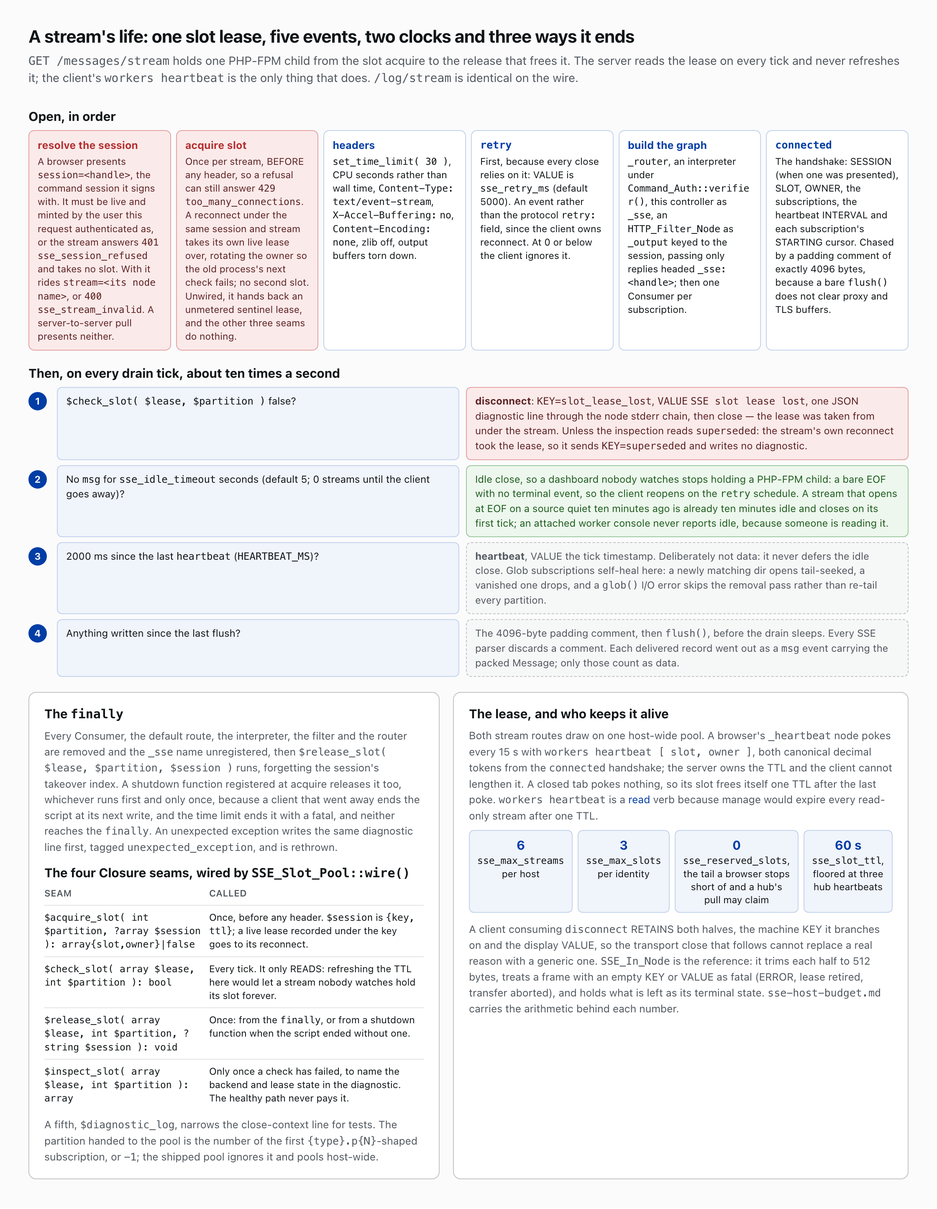
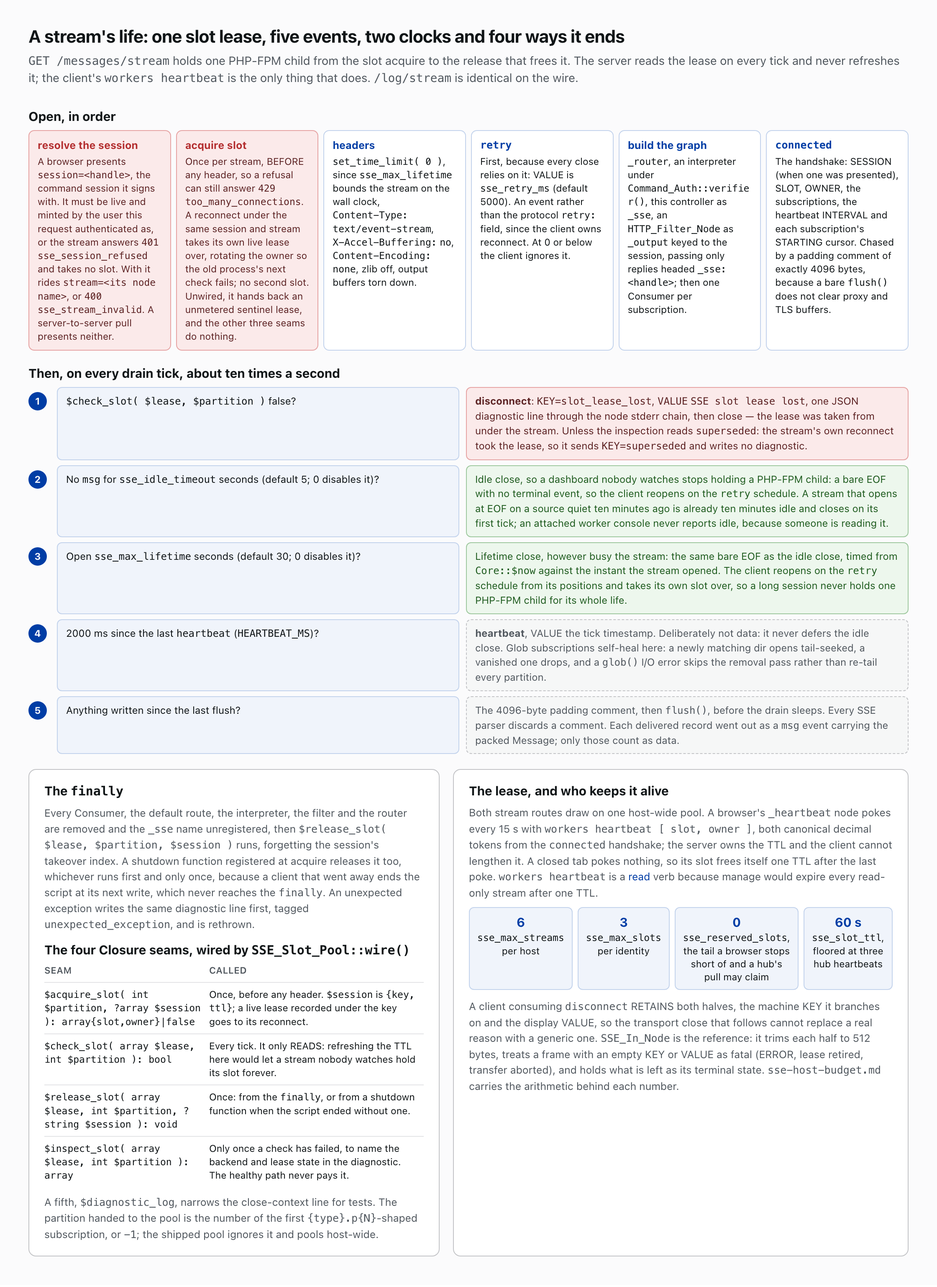
feat(sse): a stream closes after sse_max_lifetime seconds; no PHP time limit
set_time_limit() counts CPU, not wall time, so set_time_limit( 30 ) never
bounded a stream waiting in its drain. sse_max_lifetime (default 30, 0 = no
limit) closes a stream cleanly once it has been open that long, measured on
the tick clock; the client reopens on its retry schedule, resumes from its
positions and takes over its own slot. The stream runs under
set_time_limit( 0 ) again.

diff --git a/docs/img/api-sse-lifecycle.html b/docs/img/api-sse-lifecycle.html
@@ -27,14 +27,14 @@ table.seam td { padding:6px 8px 6px 0; border-top:1px solid #E3E4E6; vertical-al
 .nw { white-space:nowrap; }
 </style>
 <div class="sheet">
-<h1>A stream's life: one slot lease, five events, two clocks and three ways it ends</h1>
+<h1>A stream's life: one slot lease, five events, two clocks and four ways it ends</h1>
 <p class="sub"><span class="mono">GET /messages/stream</span> holds one PHP-FPM child from the slot acquire to the release that frees it. The server reads the lease on every tick and never refreshes it; the client's <span class="mono">workers heartbeat</span> is the only thing that does. <span class="mono">/log/stream</span> is identical on the wire.</p>
 
 <h2>Open, in order</h2>
 <div class="steps">
   <div class="s deny"><b>resolve the session</b>A browser presents <span class="mono">session=&lt;handle&gt;</span>, the command session it signs with. It must be live and minted by the user this request authenticated as, or the stream answers <span class="mono">401 sse_session_refused</span> and takes no slot. With it rides <span class="mono">stream=&lt;its node name&gt;</span>, or <span class="mono">400 sse_stream_invalid</span>. A server-to-server pull presents neither.</div>
   <div class="s deny"><b>acquire slot</b>Once per stream, BEFORE any header, so a refusal can still answer <span class="mono">429 too_many_connections</span>. A reconnect under the same session and stream takes its own live lease over, rotating the owner so the old process's next check fails; no second slot. Unwired, it hands back an unmetered sentinel lease, and the other three seams do nothing.</div>
-  <div class="s"><b>headers</b><span class="mono">set_time_limit( 30 )</span>, CPU seconds rather than wall time, <span class="mono nw">Content-Type:</span> <span class="mono nw">text/event-stream</span>, <span class="mono nw">X-Accel-Buffering:</span> <span class="mono">no</span>, <span class="mono nw">Content-Encoding:</span> <span class="mono">none</span>, zlib off, output buffers torn down.</div>
+  <div class="s"><b>headers</b><span class="mono">set_time_limit( 0 )</span>, since <span class="mono">sse_max_lifetime</span> bounds the stream on the wall clock, <span class="mono nw">Content-Type:</span> <span class="mono nw">text/event-stream</span>, <span class="mono nw">X-Accel-Buffering:</span> <span class="mono">no</span>, <span class="mono nw">Content-Encoding:</span> <span class="mono">none</span>, zlib off, output buffers torn down.</div>
   <div class="s ev"><b>retry</b>First, because every close relies on it: VALUE is <span class="mono">sse_retry_ms</span> (default 5000). An event rather than the protocol <span class="mono">retry:</span> field, since the client owns reconnect. At 0 or below the client ignores it.</div>
   <div class="s"><b>build the graph</b><span class="mono">_router</span>, an interpreter under <span class="mono">Command_Auth::verifier()</span>, this controller as <span class="mono">_sse</span>, an <span class="mono">HTTP_Filter_Node</span> as <span class="mono">_output</span> keyed to the session, passing only replies headed <span class="mono">_sse:&lt;handle&gt;</span>; then one Consumer per subscription.</div>
   <div class="s ev"><b>connected</b>The handshake: SESSION (when one was presented), SLOT, OWNER, the subscriptions, the heartbeat INTERVAL and each subscription's STARTING cursor. Chased by a padding comment of exactly 4096 bytes, because a bare <span class="mono">flush()</span> does not clear proxy and TLS buffers.</div>
@@ -43,15 +43,16 @@ table.seam td { padding:6px 8px 6px 0; border-top:1px solid #E3E4E6; vertical-al
 <h2 style="margin-top:18px">Then, on every drain tick, about ten times a second</h2>
 <div class="tick">
   <div class="n">1</div><div class="q"><span class="mono">$check_slot( $lease, $partition )</span> false?</div><div class="a end"><b>disconnect</b>: <span class="mono">KEY=slot_lease_lost</span>, <span class="mono">VALUE</span> <span class="mono">SSE slot lease lost</span>, one JSON diagnostic line through the node stderr chain, then close — the lease was taken from under the stream. Unless the inspection reads <span class="mono">superseded</span>: the stream's own reconnect took the lease, so it sends <span class="mono">KEY=superseded</span> and writes no diagnostic.</div>
-  <div class="n">2</div><div class="q">No <span class="mono">msg</span> for <span class="mono">sse_idle_timeout</span> seconds (default 5; 0 streams until the client goes away)?</div><div class="a clean">Idle close, so a dashboard nobody watches stops holding a PHP-FPM child: a bare EOF with no terminal event, so the client reopens on the <span class="mono">retry</span> schedule. A stream that opens at EOF on a source quiet ten minutes ago is already ten minutes idle and closes on its first tick; an attached worker console never reports idle, because someone is reading it.</div>
-  <div class="n">3</div><div class="q">2000 ms since the last <span class="mono">heartbeat</span> (<span class="mono">HEARTBEAT_MS</span>)?</div><div class="a on"><b>heartbeat</b>, VALUE the tick timestamp. Deliberately not data: it never defers the idle close. Glob subscriptions self-heal here: a newly matching dir opens tail-seeked, a vanished one drops, and a <span class="mono">glob()</span> I/O error skips the removal pass rather than re-tail every partition.</div>
-  <div class="n">4</div><div class="q">Anything written since the last flush?</div><div class="a on">The 4096-byte padding comment, then <span class="mono">flush()</span>, before the drain sleeps. Every SSE parser discards a comment. Each delivered record went out as a <span class="mono">msg</span> event carrying the packed Message; only those count as data.</div>
+  <div class="n">2</div><div class="q">No <span class="mono">msg</span> for <span class="mono">sse_idle_timeout</span> seconds (default 5; 0 disables it)?</div><div class="a clean">Idle close, so a dashboard nobody watches stops holding a PHP-FPM child: a bare EOF with no terminal event, so the client reopens on the <span class="mono">retry</span> schedule. A stream that opens at EOF on a source quiet ten minutes ago is already ten minutes idle and closes on its first tick; an attached worker console never reports idle, because someone is reading it.</div>
+  <div class="n">3</div><div class="q">Open <span class="mono">sse_max_lifetime</span> seconds (default 30; 0 disables it)?</div><div class="a clean">Lifetime close, however busy the stream: the same bare EOF as the idle close, timed from <span class="mono">Core::$now</span> against the instant the stream opened. The client reopens on the <span class="mono">retry</span> schedule from its positions and takes its own slot over, so a long session never holds one PHP-FPM child for its whole life.</div>
+  <div class="n">4</div><div class="q">2000 ms since the last <span class="mono">heartbeat</span> (<span class="mono">HEARTBEAT_MS</span>)?</div><div class="a on"><b>heartbeat</b>, VALUE the tick timestamp. Deliberately not data: it never defers the idle close. Glob subscriptions self-heal here: a newly matching dir opens tail-seeked, a vanished one drops, and a <span class="mono">glob()</span> I/O error skips the removal pass rather than re-tail every partition.</div>
+  <div class="n">5</div><div class="q">Anything written since the last flush?</div><div class="a on">The 4096-byte padding comment, then <span class="mono">flush()</span>, before the drain sleeps. Every SSE parser discards a comment. Each delivered record went out as a <span class="mono">msg</span> event carrying the packed Message; only those count as data.</div>
 </div>
 
 <div class="two">
   <div class="card">
     <h2>The <span class="mono">finally</span></h2>
-    <p>Every Consumer, the default route, the interpreter, the filter and the router are removed and the <span class="mono">_sse</span> name unregistered, then <span class="mono">$release_slot( $lease, $partition, $session )</span> runs, forgetting the session's takeover index. A shutdown function registered at acquire releases it too, whichever runs first and only once, because a client that went away ends the script at its next write, and the time limit ends it with a fatal, and neither reaches the <span class="mono">finally</span>. An unexpected exception writes the same diagnostic line first, tagged <span class="mono">unexpected_exception</span>, and is rethrown.</p>
+    <p>Every Consumer, the default route, the interpreter, the filter and the router are removed and the <span class="mono">_sse</span> name unregistered, then <span class="mono">$release_slot( $lease, $partition, $session )</span> runs, forgetting the session's takeover index. A shutdown function registered at acquire releases it too, whichever runs first and only once, because a client that went away ends the script at its next write, which never reaches the <span class="mono">finally</span>. An unexpected exception writes the same diagnostic line first, tagged <span class="mono">unexpected_exception</span>, and is rethrown.</p>
     <h2 style="margin-top:12px">The four Closure seams, wired by <span class="mono">SSE_Slot_Pool::wire()</span></h2>
     <table class="seam">
       <tr><th>Seam</th><th>Called</th></tr>

diff --git a/tests/integration/SSEOutTest.php b/tests/integration/SSEOutTest.php
@@ -574,6 +574,91 @@ class SSEOutTest extends TestCase {
 		$this->rmdir_recursive( $base );
 	}
 
+	// ── sse_max_lifetime: a wall-clock bound on a busy stream ─────────────────
+
+	public function test_a_busy_stream_closes_clean_at_its_max_lifetime_and_frees_its_slot(): void {
+		SSE_Slot_Pool::$max_slots   = 1;
+		SSE_Slot_Pool::$max_streams = 1;
+		SSE_Slot_Pool::$ttl         = 41;
+		Core::$memd                 = new InMemoryMemcached();
+		SSE_Slot_Pool::wire();
+		$this->set_sse_config( 1, 4500 );
+		$this->set_sse_max_lifetime( 17 );
+
+		$base = $this->make_temp_dir( 'sse-lifetime-close-' );
+		\mkdir( "{$base}/logs/firehose.p0", 0755, true );
+		$ctrl = new SSE_Out_Node();
+		$ctrl->set_base_dir( $base );
+
+		$acquire = SSE_Out_Node::$acquire_slot;
+		$lease   = $acquire( -1 );
+		$this->assertIsArray( $lease );
+
+		$capped   = false;
+		$check    = SSE_Out_Node::$check_slot;
+		$deadline = Core::right_now() + 40.0;
+		// Data every tick, so the idle close can never fire: only the
+		// lifetime bound can end this drain before the 40s cap.
+		SSE_Out_Node::$check_slot = static function ( array $held, int $partition ) use ( $ctrl, $check, $deadline, &$capped ): bool {
+			$record                   = Message::new_message();
+			$record[ Message::TYPE ]  = Message::TM_BYTESTREAM;
+			$record[ Message::VALUE ] = "busy\n";
+			$ctrl->fill( $record );
+			if ( Core::$now >= $deadline ) {
+				$capped = true;
+				return false;
+			}
+			return $check( $held, $partition );
+		};
+
+		$started = Core::right_now();
+		\ob_start();
+		$ctrl->run_stream_loop( [ 'firehose.*' ], null, 60000, $lease, -1 );
+		$out     = (string) \ob_get_clean();
+		$elapsed = Core::right_now() - $started;
+
+		$this->assertFalse( $capped, 'the lifetime bound, not the safety cap, must end the stream' );
+		$this->assertGreaterThanOrEqual( 17.0, $elapsed, 'the stream must not close before its lifetime' );
+		$this->assertLessThan( 18.0, $elapsed, 'the stream must close once its lifetime elapses' );
+		$this->assertStringNotContainsString( 'event: disconnect', $out, 'a lifetime close is a clean EOF, not a failure' );
+		$reopened = $acquire( -1 );
+		$this->assertIsArray( $reopened, 'the reopen must find its own slot free' );
+		$this->assertSame( $lease['slot'], $reopened['slot'] );
+
+		$this->rmdir_recursive( $base );
+	}
+
+	public function test_a_zero_max_lifetime_leaves_a_busy_stream_open(): void {
+		$this->set_sse_config( 1, 4500 );
+		$this->set_sse_max_lifetime( 0 );
+		$base = $this->make_temp_dir( 'sse-lifetime-disabled-' );
+		\mkdir( "{$base}/logs/firehose.p0", 0755, true );
+		$ctrl = new SSE_Out_Node();
+		$ctrl->set_base_dir( $base );
+
+		$ended_by_check = false;
+		$deadline       = Core::right_now() + 40.0;
+		SSE_Out_Node::$check_slot = static function () use ( $ctrl, $deadline, &$ended_by_check ): bool {
+			$record                   = Message::new_message();
+			$record[ Message::TYPE ]  = Message::TM_BYTESTREAM;
+			$record[ Message::VALUE ] = "busy\n";
+			$ctrl->fill( $record );
+			if ( Core::$now < $deadline ) {
+				return true;
+			}
+			$ended_by_check = true;
+			return false;
+		};
+
+		\ob_start();
+		$ctrl->run_stream_loop( [ 'firehose.*' ], null, 60000 );
+		\ob_get_clean();
+
+		$this->assertTrue( $ended_by_check, 'a disabled lifetime must leave the stream open past the default 30s' );
+
+		$this->rmdir_recursive( $base );
+	}
+
 	// ── resume: `id:` + Last-Event-ID ────────────────────────────────────────
 
 	public function test_every_subscription_resumes_across_the_disconnected_window(): void {
@@ -788,6 +873,12 @@ class SSEOutTest extends TestCase {
 			$capped = true;
 			return false;
 		};
+	}
+
+	/** Seed the SSE wall-clock lifetime bound. */
+	private function set_sse_max_lifetime( int $seconds ): void {
+		$GLOBALS['_wp_options']['newspack_nodes_sse_max_lifetime'] = $seconds;
+		Config::reset();
 	}
 
 	/** Seed both SSE close-at-EOF knobs, distinct from every shipped default. */

diff --git a/includes/rest/class-sse-out-node.php b/includes/rest/class-sse-out-node.php
@@ -421,7 +421,8 @@ class SSE_Out_Node extends Node {
 		$consumers          = [];
 		$diagnostic_written = false;
 		try {
-			Core::right_now(); // seed Core::$now for the drain loop
+			// Seeds Core::$now; sse_max_lifetime counts from here.
+			$opened_at = Core::right_now();
 			$active_lease     = self::require_lease( $lease );
 			$this->held_lease     = $active_lease;
 			$this->held_lease_key = $lease_key;
@@ -429,7 +430,7 @@ class SSE_Out_Node extends Node {
 				fn () => $this->release_held_slot( $partition )
 			);
 			if ( $initialize_stream ) {
-				\set_time_limit( 30 );
+				\set_time_limit( 0 );
 				$this->init_sse_headers();
 			}
 
@@ -525,8 +526,9 @@ class SSE_Out_Node extends Node {
 			$last_heartbeat     = Core::right_now();
 			$this->last_data    = $idle_since ?? $last_heartbeat;
 			$idle_timeout       = Core::num_int( Config::value( 'sse_idle_timeout' ), 0 );
+			$max_lifetime       = Core::num_int( Config::value( 'sse_max_lifetime' ), 0 );
 			Event_Framework::instance()->drain(
-				function () use ( &$last_heartbeat, &$consumers, &$glob_owned, &$diagnostic_written, $glob_subs, $default_route, $heartbeat_interval, $idle_timeout, $active_lease, $partition, $subs ): bool {
+				function () use ( &$last_heartbeat, &$consumers, &$glob_owned, &$diagnostic_written, $glob_subs, $default_route, $heartbeat_interval, $idle_timeout, $max_lifetime, $opened_at, $active_lease, $partition, $subs ): bool {
 					$check = self::$check_slot;
 					if ( null !== $check && ! $check( $active_lease, $partition ) ) {
 						$inspection = $this->inspect_lost_lease( $active_lease, $partition );
@@ -547,6 +549,11 @@ class SSE_Out_Node extends Node {
 					$now = Core::$now; // the enclosing drain refreshes this each tick
 					// Idle a window: close clean, the `retry` event reopens it.
 					if ( $idle_timeout > 0 && ( $now - $this->last_data ) >= $idle_timeout ) {
+						$this->flush_if_needed();
+						return false;
+					}
+					// Open a lifetime: the same clean close, however busy.
+					if ( $max_lifetime > 0 && ( $now - $opened_at ) >= $max_lifetime ) {
 						$this->flush_if_needed();
 						return false;
 					}

diff --git a/tests/unit/MessagesStreamSlotPoolTest.php b/tests/unit/MessagesStreamSlotPoolTest.php
@@ -98,14 +98,27 @@ class MessagesStreamSlotPoolTest extends TestCase {
 		$this->assertSame( 3, $captured );
 	}
 
-	public function test_teardown_lifts_the_time_limit_a_stream_sets_on_the_process(): void {
+	public function test_a_rest_stream_leaves_the_process_time_limit_unbounded(): void {
+		// sse_max_lifetime bounds the stream; a CPU limit would kill it mid-write.
 		\set_time_limit( 37 );
-		$this->assertSame( '37', \ini_get( 'max_execution_time' ) );
+		SSE_Out_Node::$acquire_slot = static fn (): array => [ 'slot' => 2, 'owner' => 73737373 ];
+		SSE_Out_Node::$release_slot = static function (): void {};
+		SSE_Out_Node::$diagnostic_log = static function (): void {};
+		$ctrl = new class() extends SSE_Out_Node {
+			protected function init_sse_headers(): void {
+				throw new \RuntimeException( 'stop after the limit is set' );
+			}
+		};
+		$request = new \WP_REST_Request( 'GET' );
+		$request->set_param( 'subscribe', 'firehose-workers.p2' );
 
-		$this->tearDown();
-		$this->setUp();
+		try {
+			$ctrl->stream( $request );
+		} catch ( \RuntimeException ) {
+			// The stub ends the stream right after the limit call.
+		}
 
-		$this->assertSame( '0', \ini_get( 'max_execution_time' ), 'a stream\'s limit must not bound the rest of the suite' );
+		$this->assertSame( '0', \ini_get( 'max_execution_time' ) );
 	}
 
 	public function test_stream_setup_exception_is_diagnosed_released_once_and_rethrown(): void {

diff --git a/tests/unit/SettingsSchemaTest.php b/tests/unit/SettingsSchemaTest.php
@@ -40,6 +40,7 @@ class SettingsSchemaTest extends TestCase {
 		'alert_deadletter_threshold',
 		'alert_emit_interval',
 		'sse_idle_timeout',
+		'sse_max_lifetime',
 		'sse_max_slots',
 		'sse_max_streams',
 		'sse_reserved_slots',
@@ -217,6 +218,7 @@ class SettingsSchemaTest extends TestCase {
 
 		$this->assertSame( 5, $fields['sse_idle_timeout']->default ?? null );
 		$this->assertSame( 5000, $fields['sse_retry_ms']->default ?? null );
+		$this->assertSame( 30, $fields['sse_max_lifetime']->default ?? null );
 		$this->assertSame(
 			0,
 			$fields['on_demand_idle']->default ?? null,

diff --git a/newspack-nodes-config.php b/newspack-nodes-config.php
@@ -93,6 +93,10 @@ return [
     // Seconds without DATA before an SSE stream closes clean; 0 = never.
     // 'sse_idle_timeout'           => 5,
 
+    // Wall-clock seconds an SSE stream stays open, busy or not, before it
+    // closes clean and the client reopens; 0 = no limit.
+    // 'sse_max_lifetime'           => 30,
+
     // Reopen delay, sent as a `retry` EVENT when the stream opens rather than
     // as the protocol `retry:` field, because the client owns reconnect.
     // 'sse_retry_ms'               => 5000,

diff --git a/tests/Helpers/TestCase.php b/tests/Helpers/TestCase.php
@@ -132,8 +132,6 @@ abstract class TestCase extends PHPUnitTestCase {
 
 	/** Remove every temp dir make_temp_dir() handed out — a temp dir is only temporary if someone deletes it. */
 	protected function tearDown(): void {
-		// An SSE stream sets a CPU limit that would bound the rest of the suite.
-		\set_time_limit( 0 );
 		foreach ( $this->temp_dirs as $dir ) {
 			$this->rmdir_recursive( $dir );
 		}

diff --git a/includes/class-settings-schema.php b/includes/class-settings-schema.php
@@ -306,6 +306,13 @@ class Settings_Schema {
 					default: 5,
 					ui: false,
 				),
+				// Wall-clock seconds a stream stays open before a clean close.
+				new Field(
+					key: 'sse_max_lifetime',
+					type: 'int',
+					default: 30,
+					ui: false,
+				),
 				new Field(
 					key: 'sse_retry_ms',
 					type: 'int',

diff --git a/docs/API.md b/docs/API.md
@@ -590,7 +590,7 @@ rather than an empty option. `set` reaches every `int` Field declaring a
 minimum: those seven plus the six `remote_*` spoke-geometry keys, the three
 `alert_*` thresholds and the four bounded `sse_*` limits, whether or not the
 settings page renders them. An int Field with no minimum (`sse_idle_timeout`,
-`sse_retry_ms`, `on_demand_idle`) and every Field of another type
+`sse_max_lifetime`, `sse_retry_ms`, `on_demand_idle`) and every Field of another type
 (`base_directory`, `memcache_servers`, `log_sources`, `vault`) is refused as
 `unknown setting: <name>`. The option name is accepted either way it is spelled,
 short key or full `newspack_nodes_` option name, which is how
@@ -791,7 +791,7 @@ log partitions and worker IPC partitions both surface as `Consumer_Node`
 instances drained in the same loop. Each Message reaching the `_sse` egress goes
 out as an SSE `msg` event carrying the packed Message.
 
-![A stream's life in order: the slot acquire before any header, the headers, the retry event, the graph build, the connected handshake with its 4096-byte padding flush, then the four checks of every drain tick, the finally that releases the slot, the four Closure seams and when each is called, the pool's four numbers, and the client heartbeat that alone keeps a lease alive.](img/api-sse-lifecycle.png)
+![A stream's life in order: the slot acquire before any header, the headers, the retry event, the graph build, the connected handshake with its 4096-byte padding flush, then the five checks of every drain tick, the finally that releases the slot, the four Closure seams and when each is called, the pool's four numbers, and the client heartbeat that alone keeps a lease alive.](img/api-sse-lifecycle.png)
 
 **Permission**: the fleet gate, then the READ role. No nonce — that would break
 the cross-server SSE pull, which is the aggregator's whole job, and it is why
@@ -838,8 +838,13 @@ apart:
 | `disconnect` | `KEY=slot_lease_lost`, VALUE `SSE slot lease lost`; or `KEY=superseded`, VALUE `SSE stream superseded by its reconnect` | The terminal frame for a stream whose lease is gone. `slot_lease_lost` is a failure and writes a diagnostic line; `superseded` means the stream's own reconnect took the lease over, and writes nothing. |
 
 The stream **closes itself after `sse_idle_timeout` seconds** (default 5)
-with no `msg` event. That idle close is a bare EOF with no terminal event; a
-`disconnect` frame always means failure, and `SSE_In_Node` is the reference
+with no `msg` event, and **after `sse_max_lifetime` seconds open** (default
+30) however busy it is. Either is disabled at 0. The lifetime runs on the wall
+clock, from `Core::$now` against the instant the stream opened, so a session
+never holds one PHP-FPM child for its whole life: the client reopens on the
+`retry` schedule, resumes from its positions and takes its own slot over. Both
+closes are a bare EOF with no terminal event; a `disconnect` frame always
+means failure, and `SSE_In_Node` is the reference
 implementation for consuming one.
 
 #### The `connected` envelope
@@ -864,7 +869,7 @@ The application controls concurrency through four optional Closure seams on
 |---|---|---|
 | `$acquire_slot` | `function ( int $partition, ?array $session ): array{slot:int,owner:positive-int}\|false` | Once per stream, before any header, so `false` can still answer `429 too_many_connections`. `$session` is `{key, ttl}` — `<handle>:<stream>` and the seconds the session has left — or null. The shipped pool hands a live lease recorded under the key to the new stream and rotates the owner, so the old process's next check fails; it never takes a recorded slot past `max_streams` or inside a browser's reserved tail, and records the index for `ttl` seconds at most. |
 | `$check_slot` | `function ( array $lease, int $partition ): bool` | Every drain tick; false takes the `disconnect` close. It only READS — refreshing the TTL belongs to the client heartbeat, and refreshing it here would let a stream nobody is reading hold its slot forever. |
-| `$release_slot` | `function ( array $lease, int $partition, ?string $session ): void` | Once per stream, from the drain's `finally` or from a shutdown function, whichever runs first, so no close, throw, time-limit fatal or client abort leaves the slot held until its TTL expires. `$session` is the lease key the stream acquired under, whose takeover index the pool forgets with the lease. |
+| `$release_slot` | `function ( array $lease, int $partition, ?string $session ): void` | Once per stream, from the drain's `finally` or from a shutdown function, whichever runs first, so no close, throw, fatal or client abort leaves the slot held until its TTL expires. `$session` is the lease key the stream acquired under, whose takeover index the pool forgets with the lease. |
 | `$inspect_slot` | `function ( array $lease, int $partition ): array<string,int\|string>` | Only once a check has already failed, to name the backend and lease state in the diagnostic line. The healthy path never pays it. |
 
 Both stream routes draw on one host-wide pool, sized by `sse_max_streams`

diff --git a/docs/sse-host-budget.md b/docs/sse-host-budget.md
@@ -75,25 +75,26 @@ stream bound.
 | `sse_reserved_slots` | 0 | 0–63, and always leaving one slot claimable | Trailing slots browsers may not claim |
 | `sse_slot_ttl` | 60 | 45–3600, raised to 45 rather than honoured below it | Lease lifetime in seconds |
 | `sse_idle_timeout` | 5 | none declared | Seconds without data before a stream closes clean; 0 never closes |
+| `sse_max_lifetime` | 30 | none declared | Wall-clock seconds a stream stays open, busy or not, before it closes clean; 0 never closes |
 | `sse_retry_ms` | 5000 | none declared | Milliseconds the client waits before reopening |
 
-None of the six appears on Settings → Nodes Runtime, because [`Settings_Schema`](../includes/class-settings-schema.php)
+None of the seven appears on Settings → Nodes Runtime, because [`Settings_Schema`](../includes/class-settings-schema.php)
 declares each of them `ui: false`. Set one in [`newspack-nodes-config.php`](../newspack-nodes-config.php), in
 the file `LOCAL_NEWSPACK_NODES_CONF` names, or as a `newspack_nodes_<key>`
 option. The `settings set` verb refuses a value outside the declared bounds; a
 value written straight into a config file or an option is taken as written, and
 only the pool's own clamps in `max_streams()`, `max_slots()`,
 `reserved_slots()` and `ttl()` bind it. That verb reaches only a Field
-declaring a minimum, so it refuses `sse_idle_timeout` and `sse_retry_ms` as
-unknown settings; a config file or an option is the only way to move either.
+declaring a minimum, so it refuses `sse_idle_timeout`, `sse_max_lifetime` and `sse_retry_ms`
+as unknown settings; a config file or an option is the only way to move them.
 
 The four budget keys read through [`SSE_Slot_Pool::budget()`](../includes/class-sse-slot-pool.php), which falls back
 to the default `Settings_Schema` declares
 ([ADR-20](architecture-decisions.md#adr-20-a-config-default-lives-in-code-every-config-file-is-an-override-surface))
 rather than to zero. Read unguarded, an operator's blank entry would collapse
-the host cap to 1. `SSE_Out_Node` reads the other two straight through
-[`Config::value()`](../includes/class-config.php) with a zero fallback, so a blank `sse_idle_timeout` stops the
-idle close outright and a blank `sse_retry_ms` sends a `retry` of 0 that the
+the host cap to 1. `SSE_Out_Node` reads the other three straight through
+[`Config::value()`](../includes/class-config.php) with a zero fallback, so a blank `sse_idle_timeout` or
+`sse_max_lifetime` stops that close outright and a blank `sse_retry_ms` sends a `retry` of 0 that the
 client discards in favour of its own backoff.
 
 [`Bootstrap::register_rest_routes()`](../includes/class-bootstrap.php) installs the pool's four seams on
@@ -209,7 +210,7 @@ install's rotatable cache salt.
 
 [`wp nodes memcache flush`](cli.md) rotates that salt, so the site half moves under
 running streams. `site()` and `salt()` both memoize per process and a stream
-holds its process for its whole life: a stream open at the rotation goes on
+holds its process for its whole life, at most `sse_max_lifetime`: a stream open at the rotation goes on
 checking and releasing the old scope's pointers while every new connection
 claims a fresh set, putting up to twice `sse_max_streams` on the host. It settles within one
 TTL — the client heartbeat lands in a new process on the new scope, finds no

diff --git a/CHANGELOG.md b/CHANGELOG.md
@@ -7,6 +7,23 @@ and this project adheres to [Semantic Versioning](https://semver.org/spec/v2.0.0
 
 ## [Unreleased]
 
+### Added
+
+- **`sse_max_lifetime` bounds an SSE stream on the wall clock.** A stream
+  open this many seconds (default 30) closes clean however busy it is: a
+  bare EOF with no terminal event, like the idle close, so the client
+  reopens on the `retry` schedule, resumes from its positions and takes its
+  own slot over. 0 disables it. The key is overlay-only and not reachable
+  through `settings set`.
+
+### Changed
+
+- **An SSE stream sets no PHP time limit.** It ran under
+  `set_time_limit( 30 )`, which counts CPU seconds rather than wall time,
+  so it never bounded a stream waiting in its drain and could end a busy
+  one in a fatal mid-write. `sse_max_lifetime` bounds the stream instead,
+  and the stream releases its slot through the same clean close.
+
 ### Fixed
 
 - Tooling: `reorder-node-methods.php` no longer ends an arrow function at the
